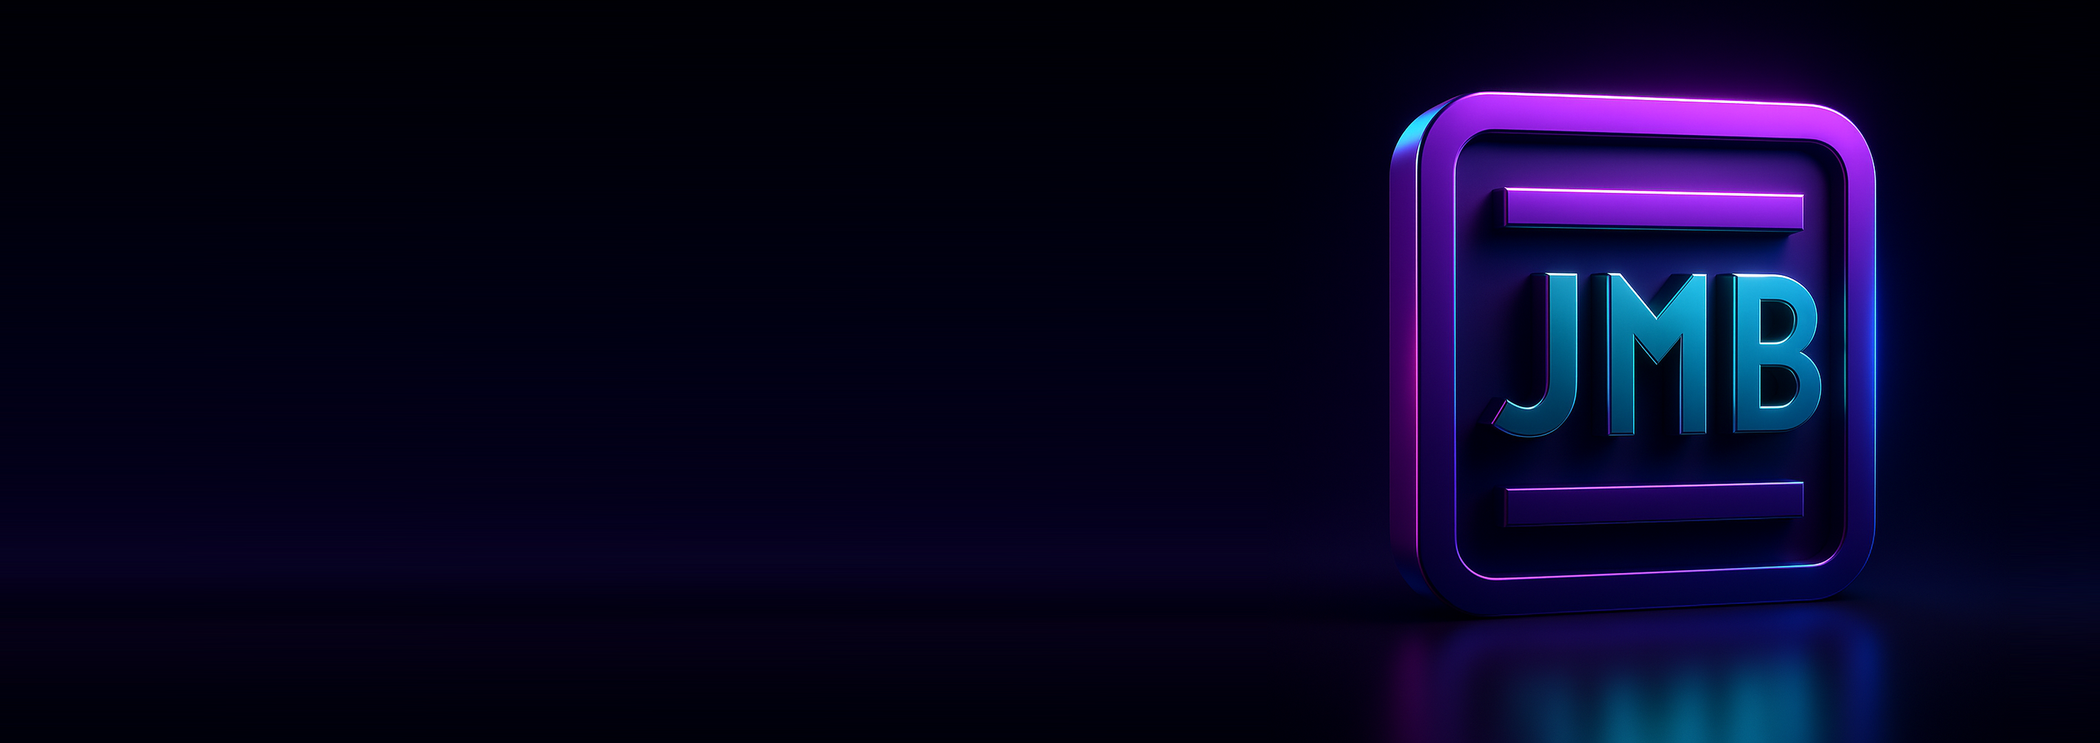
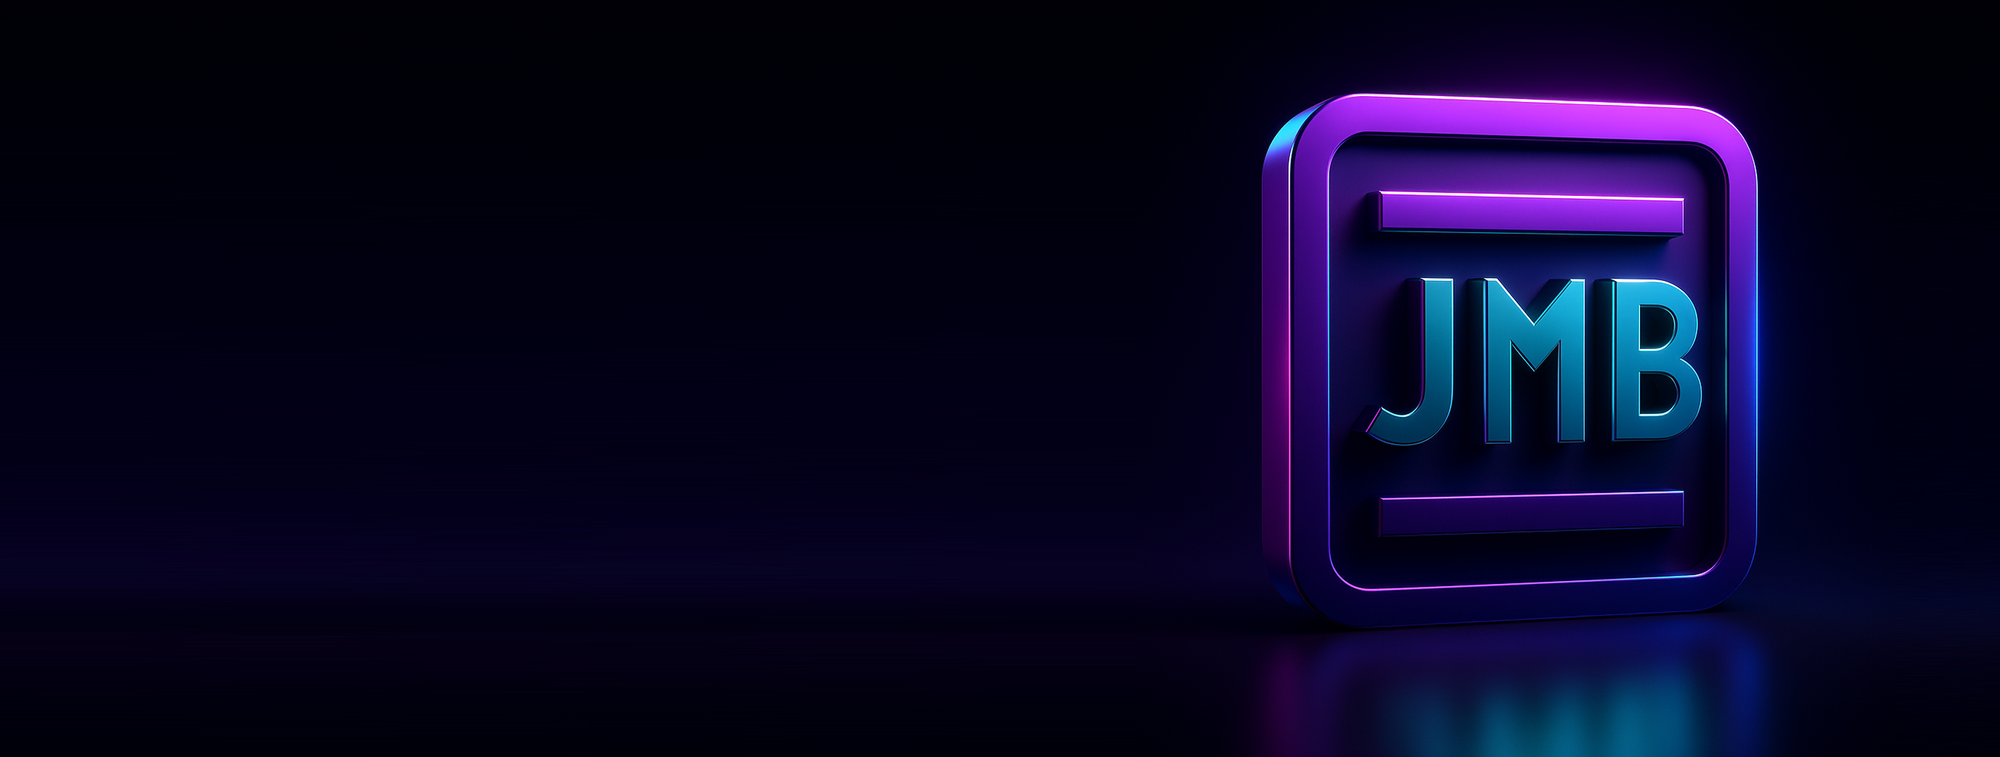
Hero: badge moved left (correct direction) with stretched dark bg. Spec: front panel is 4our/8ight only (one is app-only).

Changed region(s): [[0.62, 0.0929, 0.899, 1.0], [0.62, 0.7739, 0.651, 0.8048]]

diff --git a/index.html b/index.html
@@ -198,7 +198,7 @@
 <section id="specs"><div class="wrap">
   <h2>Specifications</h2>
   <p class="sub">Indicative — the platform is in development, so some figures may firm up before release.</p>
-  <table class="spectable"><tbody><tr><th>Outputs</th><td>1 / 4 / 8 independent, depending on model</td></tr><tr><th>Output type</th><td>RGB or tuneable white (RGBW / CW-WW) per port</td></tr><tr><th>Current</th><td>Up to ~6.5&nbsp;A per output — configurable per-port limit</td></tr><tr><th>Dimming</th><td>16-bit, temporally dithered</td></tr><tr><th>PWM frequency</th><td>8 / 20 / 62.5&nbsp;kHz (camera) — selectable per port</td></tr><tr><th>Wired &amp; wireless in</th><td>DMX512 (5-pin) · CRMX (LumenRadio) · full RDM (E1.20 / E1.37-1)</td></tr><tr><th>App control</th><td>Bluetooth&nbsp;LE via the web app — no account, no cloud</td></tr><tr><th>Effects</th><td>21 built-in dynamic looks, with rig-wide tempo &amp; spread</td></tr><tr><th>Protection</th><td>Per-port over-current (µs trip), short, thermal foldback, ground-fault, comms failsafe</td></tr><tr><th>Telemetry</th><td>Per-port current (±1%), temperature, faults, source</td></tr><tr><th>Front panel</th><td>Rotary encoder + OLED</td></tr><tr><th>Firmware updates</th><td>Wireless over Bluetooth, with automatic rollback</td></tr><tr><th>Power</th><td>Built-in PSU on 4our &amp; 8ight; the one runs from a 12&nbsp;V or 24&nbsp;V PSU or a battery pack</td></tr><tr><th>Made in</th><td>United Kingdom</td></tr></tbody></table>
+  <table class="spectable"><tbody><tr><th>Outputs</th><td>1 / 4 / 8 independent, depending on model</td></tr><tr><th>Output type</th><td>RGB or tuneable white (RGBW / CW-WW) per port</td></tr><tr><th>Current</th><td>Up to ~6.5&nbsp;A per output — configurable per-port limit</td></tr><tr><th>Dimming</th><td>16-bit, temporally dithered</td></tr><tr><th>PWM frequency</th><td>8 / 20 / 62.5&nbsp;kHz (camera) — selectable per port</td></tr><tr><th>Wired &amp; wireless in</th><td>DMX512 (5-pin) · CRMX (LumenRadio) · full RDM (E1.20 / E1.37-1)</td></tr><tr><th>App control</th><td>Bluetooth&nbsp;LE via the web app — no account, no cloud</td></tr><tr><th>Effects</th><td>21 built-in dynamic looks, with rig-wide tempo &amp; spread</td></tr><tr><th>Protection</th><td>Per-port over-current (µs trip), short, thermal foldback, ground-fault, comms failsafe</td></tr><tr><th>Telemetry</th><td>Per-port current (±1%), temperature, faults, source</td></tr><tr><th>Front panel</th><td>Rotary encoder + OLED on 4our &amp; 8ight; the one is app-only</td></tr><tr><th>Firmware updates</th><td>Wireless over Bluetooth, with automatic rollback</td></tr><tr><th>Power</th><td>Built-in PSU on 4our &amp; 8ight; the one runs from a 12&nbsp;V or 24&nbsp;V PSU or a battery pack</td></tr><tr><th>Made in</th><td>United Kingdom</td></tr></tbody></table>
 </div></section>
 
 <section class="appband" id="app"><div class="wrap"><div class="row">
